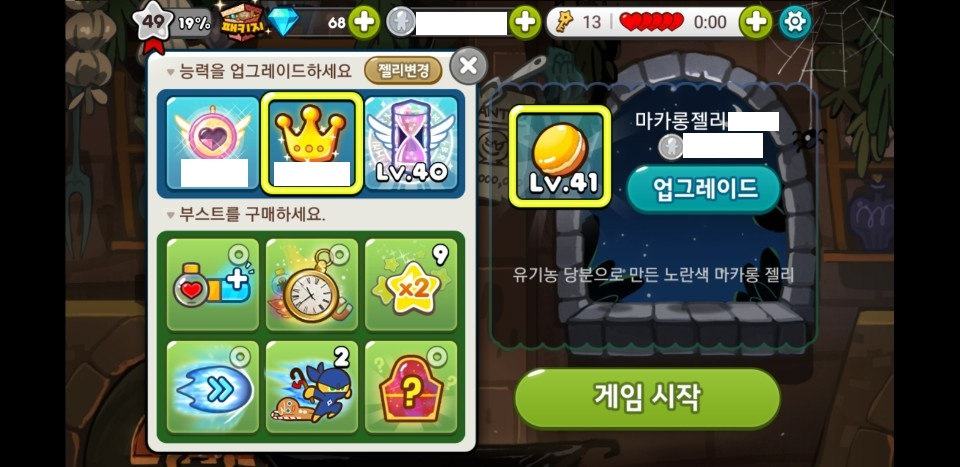
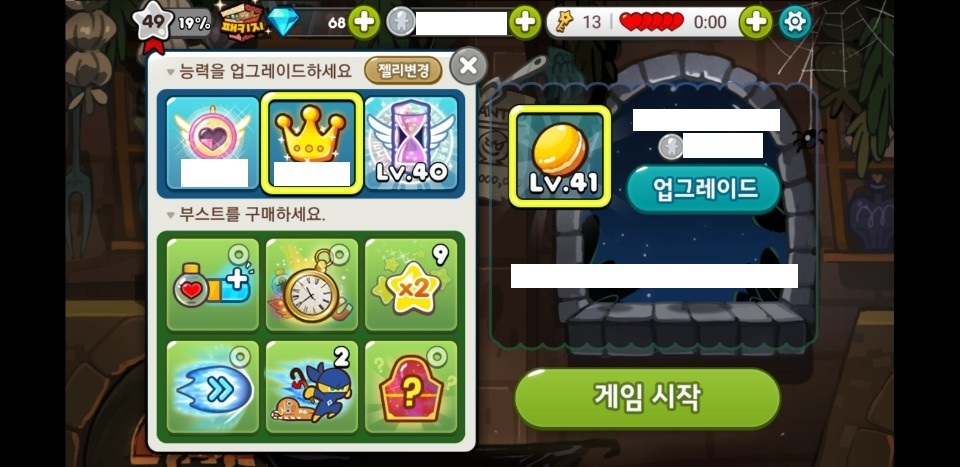
캐릭터 상점 준비
.

Changed region(s): [[0.5312, 0.5396, 0.8438, 0.6296], [0.6562, 0.2099, 0.8125, 0.2998]]

diff --git a/shop_state.py b/shop_state.py
@@ -12,7 +12,7 @@ JellyUpgradeLevel = 1
 HPUpgradeCost = 1000
 JellyUpgradeCost = 1000
 HPValue = 5
-JellyValue = 5
+JellyValue = 10
 
 def enter():
     global image
@@ -74,7 +74,7 @@ def handle_events():
                     gameLobby.point -= JellyUpgradeLevel * 1000
                     JellyUpgradeLevel += 1
                     JellyUpgradeCost = JellyUpgradeLevel * 1000
-                    JellyValue += 5
+                    JellyValue += 10
 
 
 
@@ -86,17 +86,17 @@ def handle_events():
 def draw():
     global shopType
     image.draw(600, 400, 1200, 800)
-    font.draw(520, 770, ' %5d ' % gameLobby.point, (255, 0, 0))
+    font.draw(520, 760, ' %5d ' % gameLobby.point, (255, 0, 0))
     font.draw(220, 500, ' Lv%02d' % HPUpgradeLevel, (255, 0, 255))
     font.draw(340, 500, ' Lv%02d' % JellyUpgradeLevel, (255, 0, 255))
     if shopType == 'HPshop':
-        font.draw(860, 540, ' %5d' % HPUpgradeCost, (0, 0, 255))
+        font.draw(860, 550, ' %5d' % HPUpgradeCost, (0, 0, 255))
         font.draw(800, 600, '체력 강화 Lv%02d' % HPUpgradeLevel, (0, 0, 255))
-        font.draw(820, 350, '%2d' % HPValue, (0, 0, 255))
+        font.draw(810, 350, '%2d' % HPValue, (0, 0, 255))
     else:
-        font.draw(880, 600, ' Lv%02d' % JellyUpgradeLevel, (0, 0, 255))
-        font.draw(860, 540, ' %05d' % JellyUpgradeCost * 1000, (0, 0, 255))
-        font.draw(820, 350, '%2d' % JellyValue, (0, 0, 255))
+        font.draw(860, 550, ' %5d' % JellyUpgradeCost, (0, 0, 255))
+        font.draw(800, 600, '젤리 강화 Lv%02d' % JellyUpgradeLevel, (0, 0, 255))
+        font.draw(650, 325, '젤리 획득 점수 %2d 증가' % JellyValue, (0, 0, 255))
 
 
 def update():

diff --git a/main_state.py b/main_state.py
@@ -6,6 +6,8 @@ import os
 import title_state
 import random
 import gameLobby
+import gameEnd
+
 
 from character import Character
 from background import InfiniteBackground as Background
@@ -26,6 +28,7 @@ obstacles = []
 scrollspeed = 500
 runTimer = 0
 bigTimer = 0
+point = 0
 
 
 
@@ -67,12 +70,8 @@ def enter():
     global obstacles
     obstacles = [JumpObstacle1() for i in range(2)] + [JumpObstacle2() for i in range(2)] + [JumpObstacle3() for i in range(2)] + [SlideObstacle1() for i in range(2)] + [SlideObstacle2() for i in range(2)]
     game_world.add_objects(obstacles, 4)
-    #global jumpobstacles
-    #jumpobstacles = [JumpObstacle1() for i in range(2)] + [JumpObstacle2() for i in range(2)]
-    #game_world.add_objects(jumpobstacles, 4)
-    #global slideobstacles
-    #slideobstacles = [SlideObstacle1() for i in range(2)] + [SlideObstacle2() for i in range(2)]
-    #game_world.add_objects(slideobstacles, 4)
+    global point
+    point = 0
 
     background.set_center_object(character)
     maptile.set_center_object(character)
@@ -143,7 +142,7 @@ def update():
     else:
         character.update()
         if character.DEATHCOUNT > 200:
-            game_framework.change_state(gameLobby)
+            game_framework.change_state(gameEnd)
     for jelly in jellies:
         if collide(character, jelly):
             jelly.x += 5000

diff --git a/gameEnd.py b/gameEnd.py
@@ -1,18 +1,18 @@
 import game_framework
 from pico2d import *
-import shop_state
+import gameLobby
+import main_state
 
-name = "gameLobby"
+name = "gameEnd"
 image = None
 
-point = 100000
 font = None
 
 def enter():
     global image
     global font
-    image = load_image('gameLobby.png')
-    font = load_font('CookieRunFont.ttf', 27)
+    image = load_image('gameEnd.png')
+    font = load_font('CookieRunFont.ttf', 100)
 
 def exit():
     global image
@@ -33,8 +33,8 @@ def handle_events():
             print(mouseX)
             print(mouseY)
         elif event.type == SDL_MOUSEBUTTONDOWN:
-            if 700 <= mouseX <= 1000 and 0 <= mouseY < 150:
-                game_framework.change_state(shop_state)
+            if 470 <= mouseX <= 720 and 40 <= mouseY < 140:
+                game_framework.change_state(gameLobby)
         else:
             if (event.type, event.key) == (SDL_KEYDOWN, SDLK_ESCAPE):
                 game_framework.quit()
@@ -44,7 +44,7 @@ def handle_events():
 
 def draw():
     image.draw(600, 400, 1200, 800)
-    font.draw(520, 760, ' %5d ' % point, (255, 0, 0))
+    font.draw(400, 390, ' %5d ' % main_state.point, (255, 0, 0))
 
 
 def update():

diff --git a/character.py b/character.py
@@ -266,6 +266,7 @@ class Character:
             self.invincible = 1000
         if self.HP <= 0 and self.cur_state == WalkingState:
             gameLobby.point += self.score
+            main_state.point += self.score
             self.cur_state = DeathState
             self.cur_state.enter(self, None)
         if len(self.event_que) > 0:
